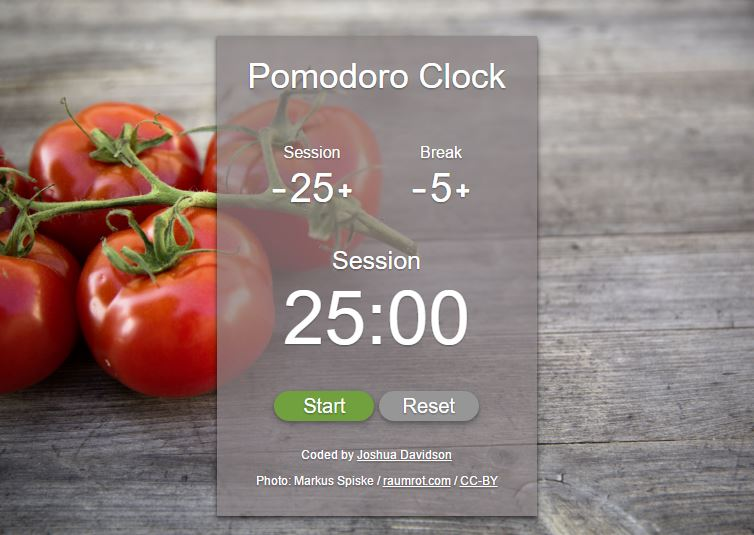
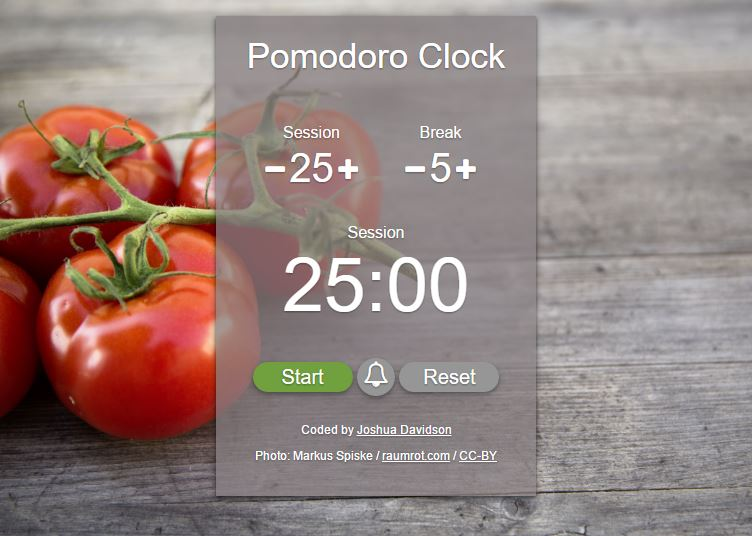
Added Simon project. Updated Pomodoro thumbnail.

diff --git a/index.html b/index.html
@@ -189,7 +189,7 @@
               <div class="row">
                 <div class="col-md-6 text-center">
                   <a class="jstooltip" href="https://jwaynedavidson.com/projects/tic-tac-toe/game.html" target="_blank">
-                    <img class="img-responsive" src="./img/tic-tac-toe-thumbnail.jpg" alt="Twitch Thumbnail">
+                    <img class="img-responsive" src="./img/tic-tac-toe-thumbnail.jpg" alt="Tic-Tac-Toe Thumbnail">
                   </a>
                 </div>
                 <div class="col-md-6 text-left">
@@ -203,6 +203,53 @@
                   </ul>
                   <h3>Description</h3>
                   <p class="text-justify">Web-based game of tic-tac-toe versus an AI based on the minimax algorithm. Try to beat it if you can!
+                  </p>
+                </div>
+              </div>
+            </div>
+          </div>
+
+          <div class="row">
+            <div class="col-xs-12 text-center dark">
+              <a href="#contact">
+                <i class="fa fa-arrow-circle-o-down fa-4x dark" aria-hidden="true"></i>
+              </a>
+            </div>
+          </div>
+
+        </div>
+
+        <!--Simon Project-->
+        <div class="slide" data-anchor="simon">
+
+          <div class="row">
+            <div class="col-xs-12 text-center dark">
+              <a href="#skills">
+                <i class="fa fa-arrow-circle-o-up fa-4x dark" aria-hidden="true"></i>
+              </a>
+              <h1>PORTFOLIO</h1>
+            </div>
+          </div>
+
+          <div class="row">
+            <div class="col-xs-10 col-xs-offset-1 text-center">
+              <div class="row">
+                <div class="col-md-6 text-center">
+                  <a class="jstooltip" href="https://jwaynedavidson.com/projects/simon/game.html" target="_blank">
+                    <img class="img-responsive" src="./img/simon-thumbnail.jpg" alt="Simon Thumbnail">
+                  </a>
+                </div>
+                <div class="col-md-6 text-left">
+                  <h2>Simon&reg</h2>
+                  <a class="text-link-dark" href="https://github.com/joshuadavidson/simon-project" target="_blank">See the Code Here</a>
+                  <h3>Elements</h3>
+                  <ul>
+                    <li>Button press audio implemented via Howler.js</li>
+                    <li>Full screen responsive game board</li>
+                    <li>Timed button playback</li>
+                  </ul>
+                  <h3>Description</h3>
+                  <p class="text-justify">Web-based recreation of the 1978 Milton Bradley Simon&reg game. Get 20 button presses in a row to win.
                   </p>
                 </div>
               </div>
